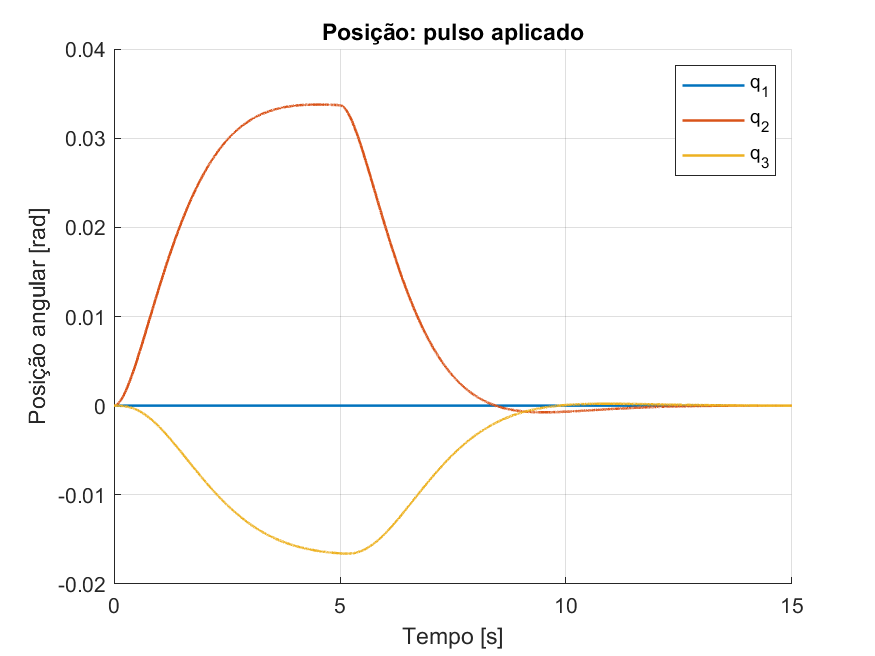
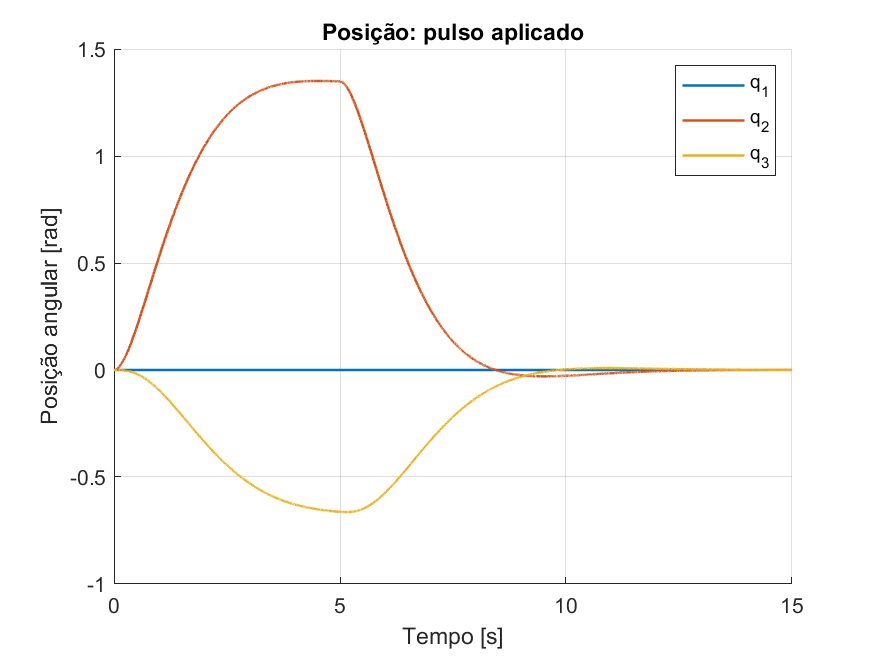
w

diff --git a/m_aloc2.m b/m_aloc2.m
@@ -30,7 +30,7 @@ p = [-0.8+0.6i -0.8-0.6i -2.6+0.3i -2.6-0.3i -1. -0.8];
 K = place(A,B,p);
 B1 = -B*0.2;
 
-sys_aloc = ss(A-B*K,B1*0.025,C,D);
+sys_aloc = ss(A-B*K,B1,C,D);
 [y,t,x]=step(sys_aloc);
 
 figure(1)
@@ -125,8 +125,8 @@ q=[1 0 0 0 0 0 0];
 
 passo=0.001;
 t=0:passo:15;
-u=zeros(length(t),3);
-u(1:5000,2)=ones(5000,1);
+u=zeros(length(t),3)*0.025;
+u(1:5000,:)=ones(5000,3);
 % u(:,1)=zeros(length(t),1);
 % u(:,3)=zeros(length(t),1);
 [y]=lsim(sys_aloc,u,t,q(2:end));
@@ -141,10 +141,10 @@ plot(t,y(:,6),LineWidth=1.20)
 title("Velocidade angular: pulso aplicado")
 xlabel("Tempo [s]")
 ylabel("Velocidade angular [rad/s]")
-legend('w_1','w_2','w_3','Location','northeast')
+legend('\omega_1','\omega_2','\omega_3','Location','northeast')
 hold off
 grid on
-baseFileName = sprintf('Image_%s.png', "aloc_u2_vel");
+baseFileName = sprintf('Image_%s.png', "aloc_ut_vel");
 fullFileName = fullfile("Imagens\Controle Moderno", baseFileName);
 saveas(6, fullFileName);
 
@@ -159,7 +159,7 @@ ylabel("Posição angular [rad]")
 legend('q_1','q_2','q_3','Location','northeast')
 hold off
 grid on
-baseFileName = sprintf('Image_%s.png', "aloc_u2_pos");
+baseFileName = sprintf('Image_%s.png', "aloc_ut_pos");
 fullFileName = fullfile("Imagens\Controle Moderno", baseFileName);
 saveas(7, fullFileName);
 

diff --git a/lqrdovini.m b/lqrdovini.m
@@ -60,7 +60,7 @@ plot(t,y(:,6,3),LineWidth=1.20)
 title("Velocidade angular: degrau aplicado")
 xlabel("Tempo [s]")
 ylabel("Velocidade angular [rad/s]")
-legend('w_1','w_2','w_3','Location','east')
+legend('\omega_1','\omega_2','\omega_3','Location','east')
 hold off
 grid on
 
